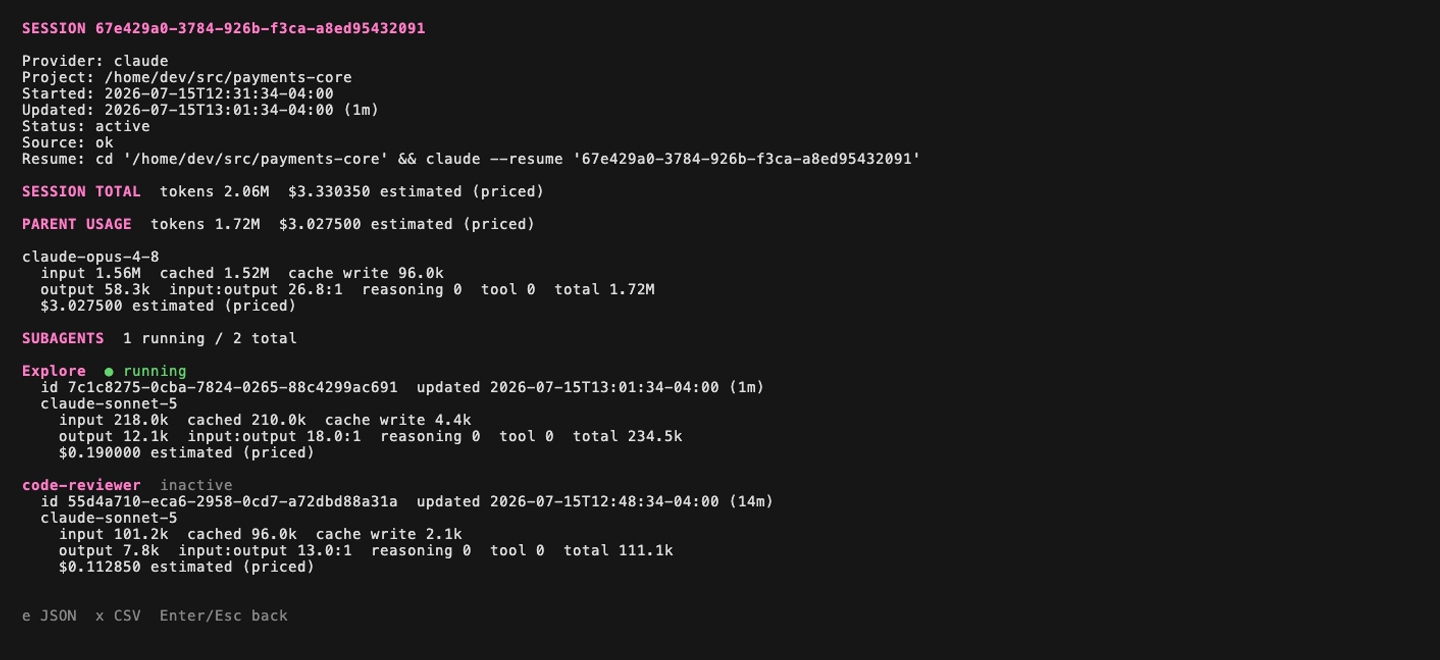
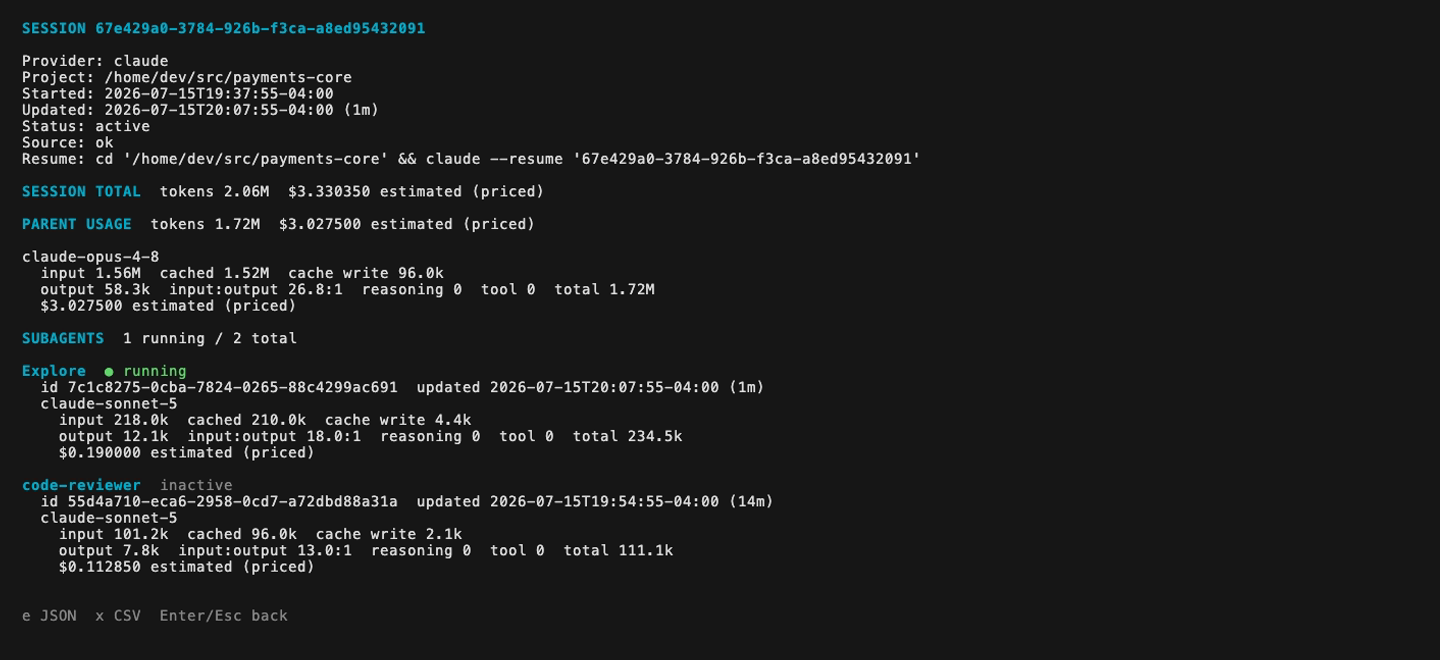
Update TUI scheme, regenerate assets.

diff --git a/internal/tui/model.go b/internal/tui/model.go
@@ -39,8 +39,7 @@ type Model struct {
 	layout                       int
 }
 
-var titleStyle = lipgloss.NewStyle().Bold(true).Foreground(lipgloss.Color("#ff7cc8"))
-var hawkStyle = lipgloss.NewStyle().Bold(true).Foreground(lipgloss.Color("#ff7cc8"))
+var titleStyle = lipgloss.NewStyle().Bold(true).Foreground(lipgloss.Color("#05A9C7"))
 var muted = lipgloss.NewStyle().Foreground(lipgloss.Color("#888888"))
 var good = lipgloss.NewStyle().Foreground(lipgloss.Color("#65d46e"))
 var alarmStyle = lipgloss.NewStyle().Bold(true).Foreground(lipgloss.Color("#ff5f56"))
@@ -48,6 +47,8 @@ var alarmStyle = lipgloss.NewStyle().Bold(true).Foreground(lipgloss.Color("#ff5f
 const (
 	highInputAlarmTokens int64 = 100_000
 	minimumCacheRatio          = 0.80
+	tableOuterWidth            = 2
+	tableCellPadding           = 2
 )
 
 func New(mon *monitor.Monitor) Model {
@@ -72,9 +73,9 @@ func (m Model) Update(msg tea.Msg) (tea.Model, tea.Cmd) {
 	case tea.BackgroundColorMsg:
 		styles := table.DefaultStyles()
 		if x.IsDark() {
-			styles.Selected = styles.Selected.Foreground(lipgloss.Color("#ff7cc8"))
+			styles.Selected = styles.Selected.Foreground(lipgloss.Color("#05A9C7"))
 		} else {
-			styles.Selected = styles.Selected.Foreground(lipgloss.Color("#8f1d65"))
+			styles.Selected = styles.Selected.Foreground(lipgloss.Color("#046b80"))
 		}
 		m.table.SetStyles(styles)
 		return m, nil
@@ -227,7 +228,7 @@ func (m *Model) resize() {
 	// crossing a responsive breakpoint cannot pair 8-cell rows with 10 columns.
 	m.table.SetRows(nil)
 	w := max(30, m.width)
-	m.table.SetWidth(w - 2)
+	m.table.SetWidth(w - tableOuterWidth)
 	headerHeight := 9
 	if w >= 60 {
 		headerHeight = 14
@@ -242,20 +243,24 @@ func (m *Model) resize() {
 func (m *Model) setColumns() {
 	w := max(30, m.width)
 	switch {
-	case w < 80:
+	case w < 96:
 		m.layout = 0
-		session := max(8, w-47)
+		session := flexibleColumnWidth(w, 38, 5, 8)
 		m.table.SetColumns([]table.Column{{Title: "Provider", Width: 8}, {Title: "Session", Width: session}, {Title: "Agents", Width: 6}, {Title: "I/O · Ratio", Width: 16}, {Title: "Total", Width: 8}})
-	case w < 120:
+	case w < 131:
 		m.layout = 1
-		session := max(8, w-84)
+		session := flexibleColumnWidth(w, 66, 10, 8)
 		m.table.SetColumns([]table.Column{{Title: "Provider", Width: 8}, {Title: "Session", Width: session}, {Title: "Agents", Width: 6}, {Title: "Input", Width: 7}, {Title: "Cached", Width: 7}, {Title: "Output", Width: 7}, {Title: "I:O", Width: 7}, {Title: "Total", Width: 8}, {Title: "Cost USD", Width: 9}, {Title: "Updated", Width: 7}})
 	default:
 		m.layout = 2
-		session := max(10, w-115)
+		session := flexibleColumnWidth(w, 95, 12, 10)
 		m.table.SetColumns([]table.Column{{Title: "Provider", Width: 8}, {Title: "Session", Width: session}, {Title: "Agents", Width: 6}, {Title: "Model", Width: 16}, {Title: "Input", Width: 8}, {Title: "Cached", Width: 8}, {Title: "Output", Width: 8}, {Title: "I:O", Width: 7}, {Title: "Reason", Width: 8}, {Title: "Total", Width: 9}, {Title: "Cost USD", Width: 10}, {Title: "Updated", Width: 7}})
 		return
 	}
+}
+func flexibleColumnWidth(terminalWidth, fixedWidth, columnCount, minimum int) int {
+	available := terminalWidth - tableOuterWidth - fixedWidth - columnCount*tableCellPadding
+	return max(minimum, available)
 }
 func (m *Model) rebuild() {
 	q := strings.ToLower(m.search)
@@ -334,7 +339,7 @@ func (m Model) View() tea.View {
 	}
 	v := tea.NewView(body)
 	v.AltScreen = true
-	v.WindowTitle = "Tokenhawk — token usage monitor"
+	v.WindowTitle = "Tokenhawk - token usage monitor"
 	v.MouseMode = tea.MouseModeCellMotion
 	return v
 }
@@ -480,7 +485,7 @@ func subagentSearchText(s core.Session) string {
 }
 func agentCount(s core.Session) string {
 	if len(s.Subagents) == 0 {
-		return "—"
+		return "-"
 	}
 	return fmt.Sprintf("%d/%d", s.RunningSubagents(), len(s.Subagents))
 }
@@ -523,24 +528,9 @@ func sessionLabel(s core.Session) string {
 }
 func hawkBrand(width int) string {
 	if width < 60 {
-		return hawkStyle.Render("▒▓▓▓▓▒") + "  " + titleStyle.Render("TOKENHAWK")
+		return titleStyle.Render("TOKENHAWK")
 	}
-	hawk := eagleMark()
-	wordmark := titleStyle.Render("TOKENHAWK") + "\n" + muted.Render("session token monitor")
-	return lipgloss.JoinHorizontal(lipgloss.Center, hawk, "   ", wordmark)
-}
-func eagleMark() string {
-	// 24x6 raster generated directly from the supplied angular hawk-head logo.
-	lines := strings.Split(` ⢠⣤⣤⣤⣤⣤⣤⣤⣤⣤⣤⣤⣤⣤⣄⡀
- ⢸⣿⣿⣿⣿⣿⢟⣫⣽⡿⣿⣿⣿⣿⣿⣿⣶⣶⣦⣤⣀
- ⢨⣭⣭⣭⣍⡑⢿⣿⣧⣀⣻⣿⣿⣟⣿⠋  ⠉⠙⢿⣷
- ⢸⣿⣿⣿⣿⣿⢆⣿⡿⣫⣽⣿⣿⣿⣶⣤⣤⣀⡀ ⣸⡿
- ⠘⠛⠛⠛⠛⠛⠈⠛⠛⠛⠛⠛⠛⠛⠛⠛⠛⠛⠻⣷⡿⠁
-                    ⠋`, "\n")
-	for i, line := range lines {
-		lines[i] = hawkStyle.Render(line)
-	}
-	return strings.Join(lines, "\n")
+	return titleStyle.Render("TOKENHAWK") + "\n" + muted.Render("session token monitor")
 }
 func shortProject(p string) string {
 	if p == "" {
@@ -561,7 +551,7 @@ func human(v int64) string {
 func ratioText(input, output int64) string {
 	switch {
 	case input == 0 && output == 0:
-		return "—"
+		return "-"
 	case output == 0:
 		return "∞:1"
 	case input == 0:

diff --git a/internal/tui/model_test.go b/internal/tui/model_test.go
@@ -6,6 +6,7 @@ import (
 	"time"
 
 	tea "charm.land/bubbletea/v2"
+	"charm.land/lipgloss/v2"
 	"github.com/polera/tokenhawk/internal/core"
 )
 
@@ -26,7 +27,7 @@ func TestSessionRowsShowIndependentBreakdowns(t *testing.T) {
 	if rows[0][2] != "1/1" || rows[0][3] != "100" || rows[0][4] != "40" || rows[0][5] != "20" || rows[0][6] != "5.00:1" || rows[0][7] != "120" {
 		t.Fatalf("first session was not broken down independently: %#v", rows[0])
 	}
-	if rows[1][2] != "—" || rows[1][3] != "7" || rows[1][4] != "2" || rows[1][5] != "3" || rows[1][6] != "2.33:1" || rows[1][7] != "10" {
+	if rows[1][2] != "-" || rows[1][3] != "7" || rows[1][4] != "2" || rows[1][5] != "3" || rows[1][6] != "2.33:1" || rows[1][7] != "10" {
 		t.Fatalf("second session was not broken down independently: %#v", rows[1])
 	}
 	if rows[0][8] != "unpriced" || rows[1][8] != "unpriced" {
@@ -35,11 +36,11 @@ func TestSessionRowsShowIndependentBreakdowns(t *testing.T) {
 }
 
 func TestHawkBrandHasCompactAndFullArtwork(t *testing.T) {
-	if got := hawkBrand(40); !strings.Contains(got, "▒▓▓▓▓▒") || !strings.Contains(got, "TOKENHAWK") {
-		t.Fatalf("compact brand missing hawk: %q", got)
+	if got := hawkBrand(40); !strings.Contains(got, "TOKENHAWK") {
+		t.Fatalf("compact brand missing wordmark: %q", got)
 	}
-	if got := hawkBrand(120); !strings.Contains(got, "⢠⣤⣤⣤⣤") || !strings.Contains(got, "⠘⠛⠛⠛⠛") || !strings.Contains(got, "session token monitor") {
-		t.Fatalf("full brand missing hawk: %q", got)
+	if got := hawkBrand(120); !strings.Contains(got, "TOKENHAWK") || !strings.Contains(got, "session token monitor") {
+		t.Fatalf("full brand missing wordmark: %q", got)
 	}
 }
 
@@ -49,7 +50,7 @@ func TestResizeAcrossColumnLayoutsRebuildsRowShape(t *testing.T) {
 	for _, tc := range []struct {
 		width int
 		cells int
-	}{{110, 10}, {140, 12}, {50, 5}, {120, 12}, {79, 5}, {80, 10}} {
+	}{{110, 10}, {140, 12}, {50, 5}, {131, 12}, {95, 5}, {96, 10}} {
 		updated, _ := m.Update(tea.WindowSizeMsg{Width: tc.width, Height: 30})
 		m = updated.(Model)
 		rows := m.table.Rows()
@@ -58,6 +59,21 @@ func TestResizeAcrossColumnLayoutsRebuildsRowShape(t *testing.T) {
 		}
 		if m.table.Cursor() != 0 {
 			t.Fatalf("width %d lost the selected session", tc.width)
+		}
+	}
+}
+
+func TestResponsiveTableHeadersFitWithoutCuttingOffUpdated(t *testing.T) {
+	for _, width := range []int{58, 95, 96, 120, 130, 131, 150} {
+		m := New(nil)
+		updated, _ := m.Update(tea.WindowSizeMsg{Width: width, Height: 30})
+		m = updated.(Model)
+		header := strings.Split(m.table.View(), "\n")[0]
+		if got, limit := lipgloss.Width(header), m.table.Width(); got > limit {
+			t.Fatalf("width %d rendered a %d-cell header in a %d-cell table: %q", width, got, limit, header)
+		}
+		if m.layout > 0 && !strings.Contains(header, "Updated") {
+			t.Fatalf("width %d cut off the Updated header: %q", width, header)
 		}
 	}
 }
@@ -84,7 +100,7 @@ func TestInputOutputRatios(t *testing.T) {
 	for _, tc := range []struct {
 		input, output int64
 		want          string
-	}{{100, 20, "5.00:1"}, {20, 100, "1:5.00"}, {0, 10, "0:1"}, {10, 0, "∞:1"}, {0, 0, "—"}} {
+	}{{100, 20, "5.00:1"}, {20, 100, "1:5.00"}, {0, 10, "0:1"}, {10, 0, "∞:1"}, {0, 0, "-"}} {
 		if got := ratioText(tc.input, tc.output); got != tc.want {
 			t.Fatalf("ratioText(%d, %d) = %q, want %q", tc.input, tc.output, got, tc.want)
 		}

diff --git a/internal/statusline/statusline.go b/internal/statusline/statusline.go
@@ -221,7 +221,7 @@ func human(value int64) string {
 func ratioText(input, output int64) string {
 	switch {
 	case input == 0 && output == 0:
-		return "—"
+		return "-"
 	case output == 0:
 		return "∞:1"
 	case input == 0:

diff --git a/README.md b/README.md
@@ -190,7 +190,7 @@ Equivalent CLI flags override the loaded values. Use `--rebuild` after changing 
 
 ## Pricing
 
-Claude, Codex, and Gemini costs are explicitly estimates of public API list-price equivalents—not subscription charges, invoices, free-tier consumption, discounts, or taxes. The bundled, effective-dated catalog only prices exact known model IDs. Unknown identifiers remain marked `unpriced` rather than inheriting a guessed family rate. Pi and OpenCode already record calculated costs; Tokenhawk labels those values `reported` and preserves them instead of applying a second price calculation.
+Claude, Codex, and Gemini costs are explicitly estimates of public API list-price equivalents, not subscription charges, invoices, free-tier consumption, discounts, or taxes. The bundled, effective-dated catalog only prices exact known model IDs. Unknown identifiers remain marked `unpriced` rather than inheriting a guessed family rate. Pi and OpenCode already record calculated costs; Tokenhawk labels those values `reported` and preserves them instead of applying a second price calculation.
 
 Session detail includes a copy-ready resume command. Tokenhawk changes to the recorded project directory first because resume behavior can be project-sensitive.
 